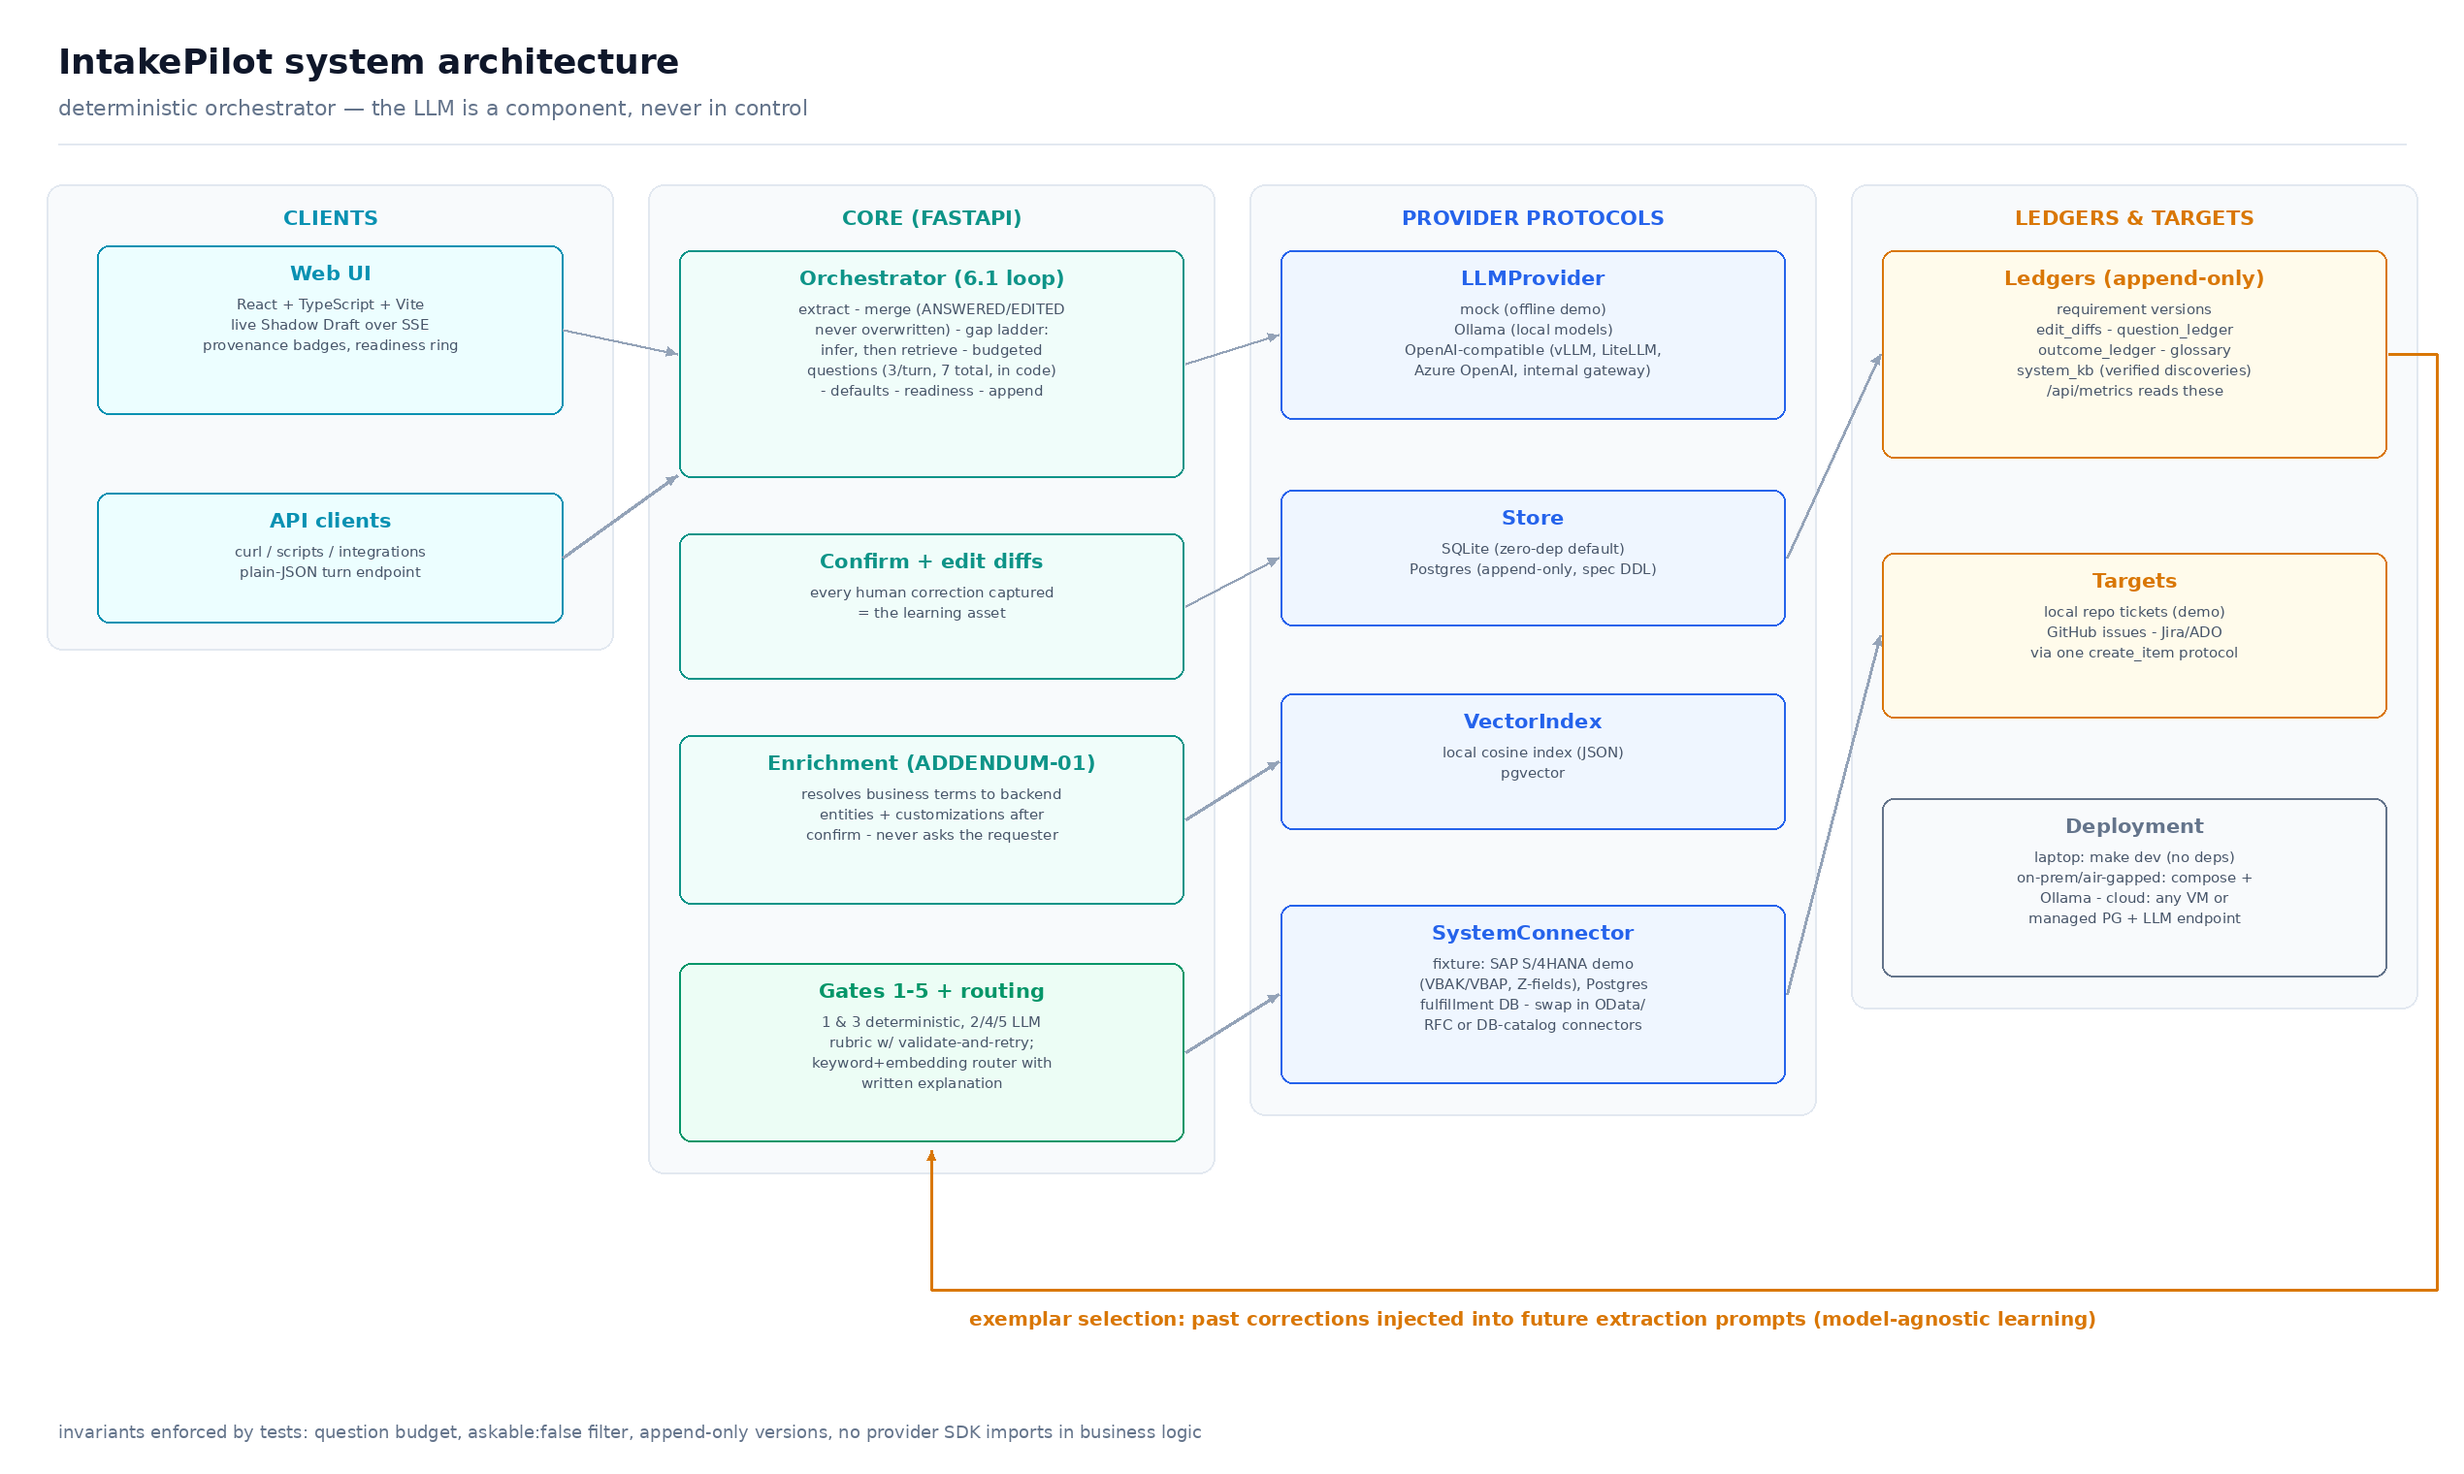
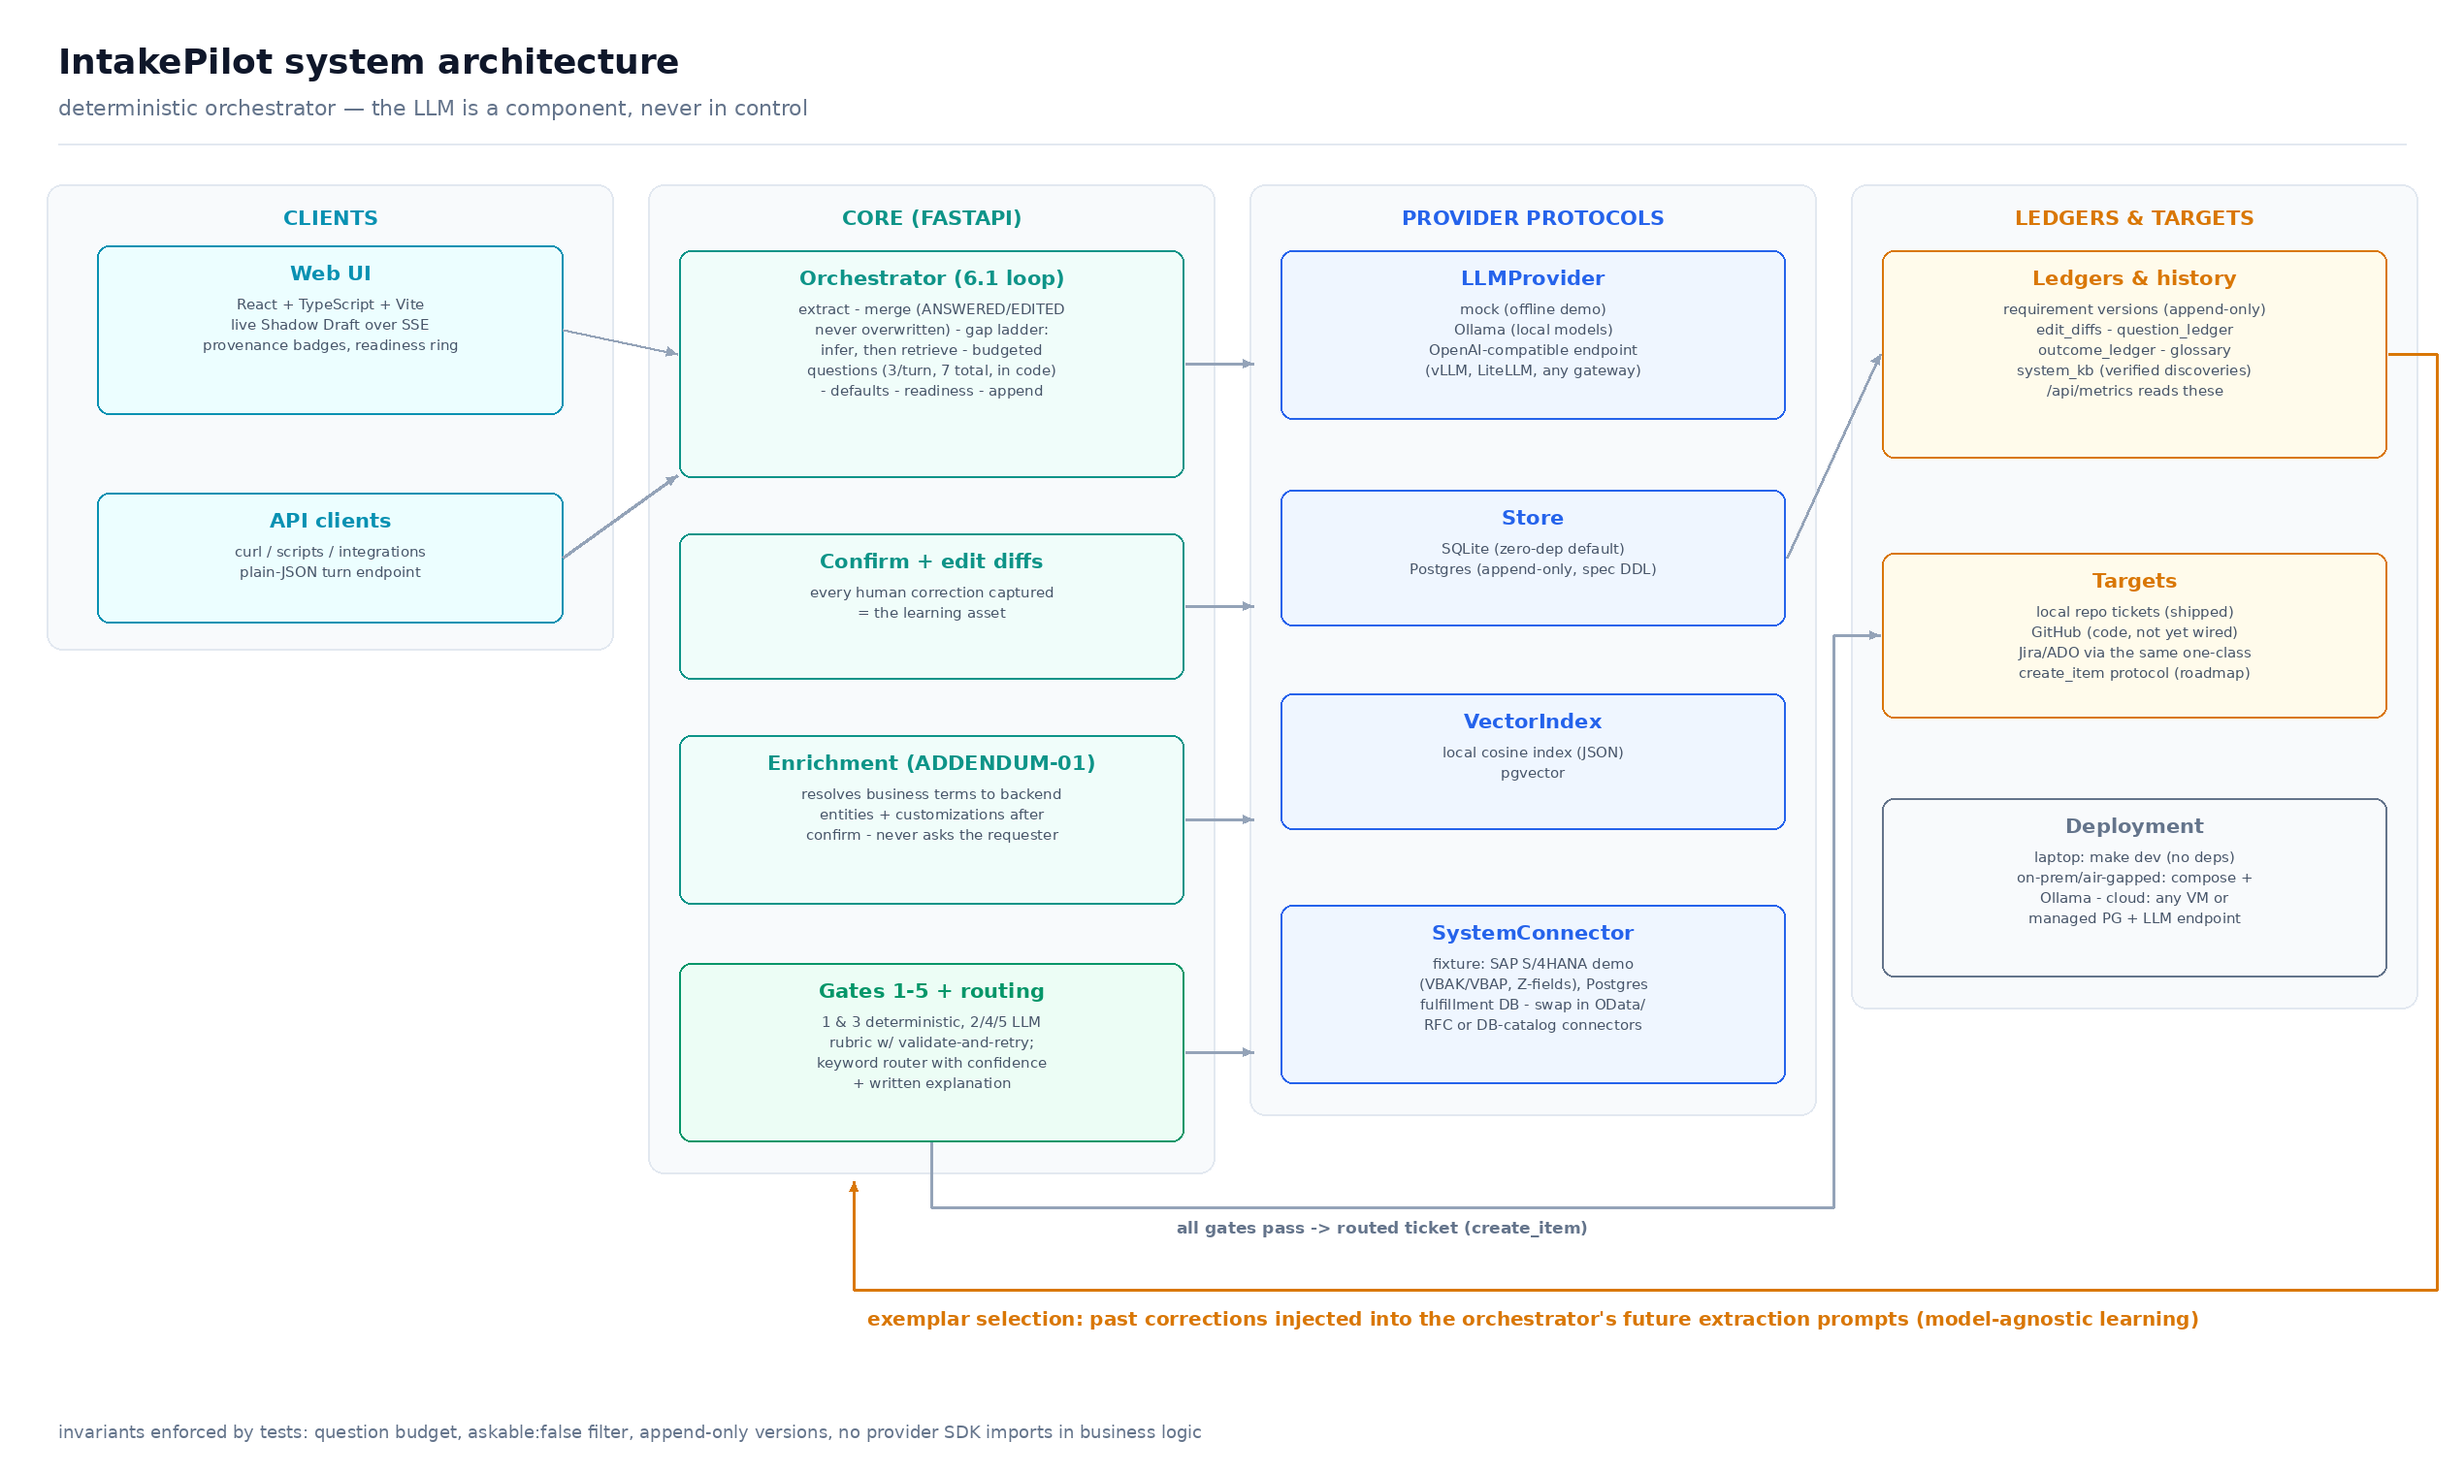
docs: fact-check pass — fix routing (keyword-only), target status (GitHub unwired, Jira/ADO roadmap), ledger semantics, and diagram arrows to match code

diff --git a/README.md b/README.md
@@ -77,8 +77,8 @@ human edit as an `edit_diffs` row (the learning asset) which
 `core/learning/exemplars.py` injects into future extraction prompts —
 model-agnostic learning. Gates 1/3 are deterministic pure functions; gates
 2/4/5 use the LLM as a scored rubric behind one validate-and-retry wrapper.
-The routing classifier is keyword/embedding-based with a confidence and a
-human-readable explanation. `web/` is a React + TypeScript + Vite app that
+The routing classifier is keyword-based with a confidence and a
+human-readable explanation (embedding-assisted scoring is on the roadmap). `web/` is a React + TypeScript + Vite app that
 consumes the SSE turn stream to animate the Shadow Draft live.
 
 ## Backend-aware enrichment and the system knowledge base
@@ -140,7 +140,8 @@ Implemented and verified (spec milestones 1–5 core, plus gates/routing from 6)
 - Confirmation with edit-diff capture, exemplar selection/injection (7.2)
 - Five-gate pipeline (1 & 3 deterministic; 2/4/5 LLM-rubric), routing
   classifier with explanation, local ticket target writing to
-  `examples/demo-repo/`, GitHub target (issue creation; webhooks stubbed)
+  `examples/demo-repo/` (a GitHub target exists in code but is not yet
+  wired into config — see PROJECT-REVIEW.md)
 - `/api/metrics` computing Section 9 metrics from the ledgers (plus
   system-KB counts)
 - ADDENDUM-01 backend-aware enrichment: `SystemConnector` protocol + fixture
